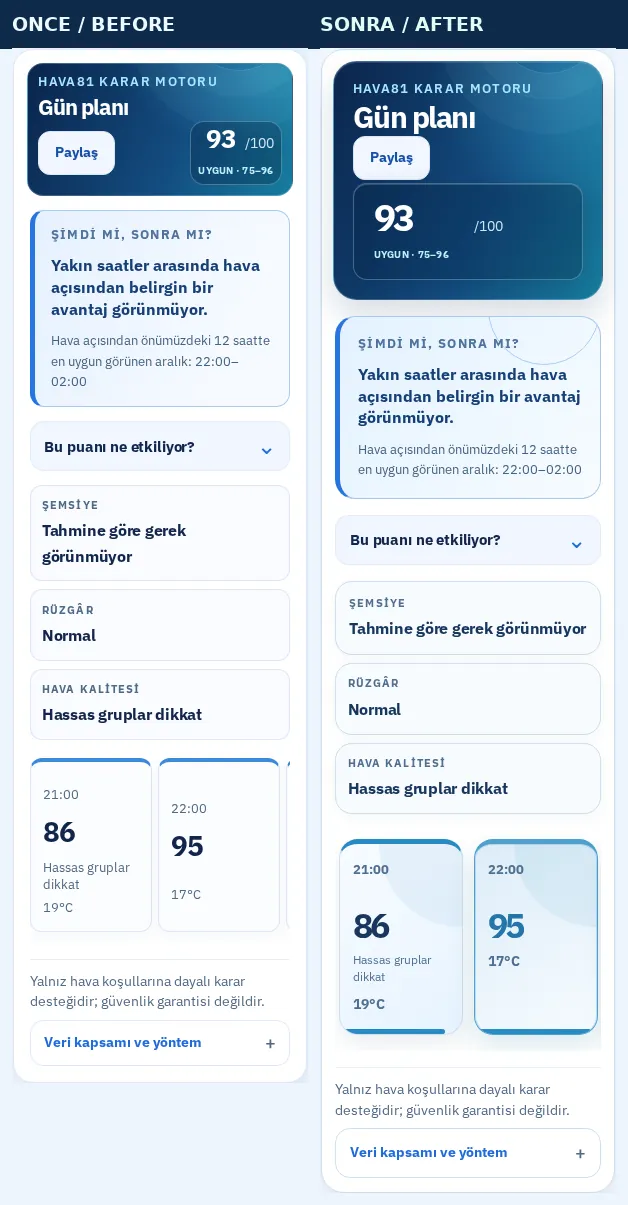
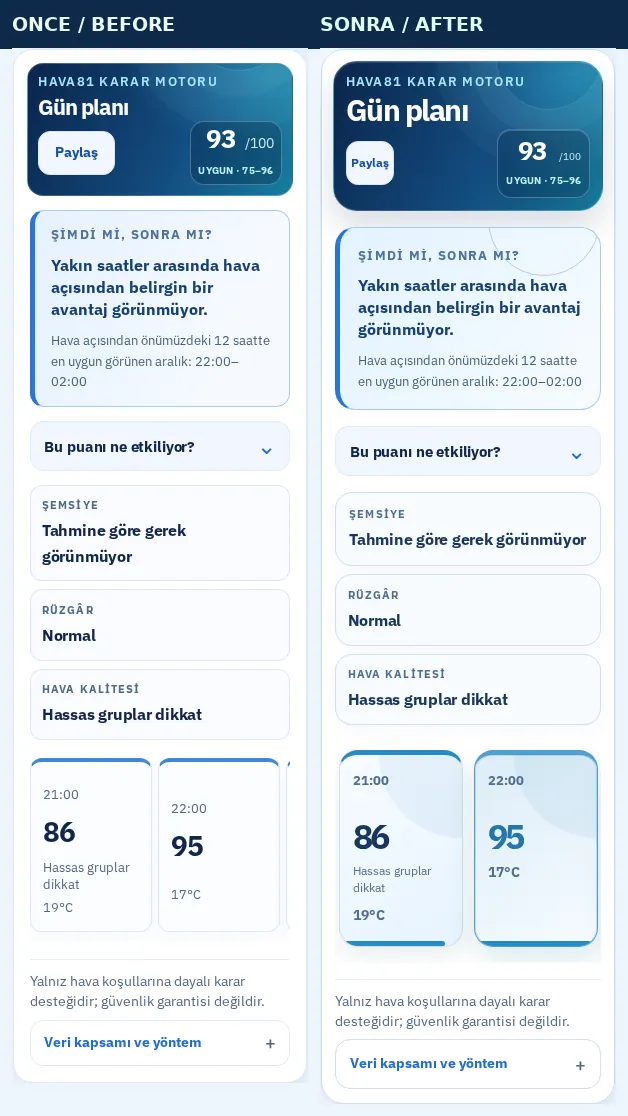
fix(ui): compact mobile day-plan header at 100 and 200 percent text

Changed region(s): [[0.0, 0.0, 1.0, 1.0]]

diff --git a/src/styles/DailyTimelineEditorial.css b/src/styles/DailyTimelineEditorial.css
@@ -184,7 +184,7 @@
 .app .daily-plan__method summary { min-height: 48px; }
 @media (max-width: 47.99rem) {
   .app .daily-plan { padding: .85rem; border-radius: 23px; }
-  .app .daily-plan__header { padding: 1.2rem; }
+  .app .daily-plan__header { padding: .75rem; }
   .app .daily-plan__header h2 { font-size: clamp(1.75rem, 7vw, 2.25rem); }
   .app .daily-plan__score strong { font-size: 2.3rem; }
   .app .daily-plan__slots { grid-auto-columns: minmax(8.35rem, 43%); gap: .65rem; padding-bottom: 1rem; }
@@ -236,19 +236,38 @@
     overflow-wrap: anywhere;
   }
   .app .daily-plan__header-actions {
+    display: flex;
     width: 100%;
-    flex-wrap: wrap;
-    justify-content: flex-start;
+    flex-wrap: nowrap;
+    align-items: center;
+    justify-content: space-between;
     min-width: 0;
+    gap: 8px;
+  }
+  .app .daily-plan__share {
+    flex: 0 0 auto;
+    min-width: 0;
+    padding-inline: 4px;
+    font-size: .75rem;
+    white-space: nowrap;
   }
   .app .daily-plan__score {
-    width: 100%;
+    flex: 0 1 auto;
+    width: auto;
     min-width: 0;
-    justify-items: start;
+    justify-items: end;
     max-width: 100%;
     box-sizing: border-box;
+    padding: 8px;
+  }
+  .app .daily-plan__score strong {
+    font-size: 1.65rem;
+  }
+  .app .daily-plan__score > span {
+    font-size: .625rem;
   }
   .app .daily-plan__score small {
-    text-align: left;
+    text-align: right;
+    overflow-wrap: anywhere;
   }
 }

diff --git a/docs/visual-reviews/dayplan-hourly-editorial-20261009/README.md b/docs/visual-reviews/dayplan-hourly-editorial-20261009/README.md
@@ -39,6 +39,8 @@ Aşağıdaki dosyalar **gerçek Chromium** ile aynı ekran genişliklerinde alı
 - Vite üretim derlemesi: **başarılı**; 81 şehir giriş sayfası üretimi de başarılı.
 - Vitest: **763 / 763**, 108 dosya başarılı.
 - Hedef Playwright kontrolleri: **5 başarılı**, 7 cihaz/koşul filtresiyle atlandı.
+- **PR #1298 CI düzeltmesi:** 390 px mobil başlık normal yazıda 180 px altında, %200 yazıda 450 px altında; paylaş düğmesi ve puan yan yana kalır, hiçbir kelime bölünmez.
+- Güncellenen mobil başlığın doğru gösterildiğini kanıtlamak için önce/sonra arşivi yeniden oluşturuldu.
 - Gerçek ekran ve tema çekimi: normal masaüstü/tablet/mobil, koyu tema, 320 px, %200 metin; Chromium test raporu yerel `.visual-dayplan/final-captures/audit.json` dosyasında.
 - Yalnızca bu ekran için eklenen kod: `src/styles/DailyTimelineEditorial.css`, `src/components/hava81/DailyPlanPanel.tsx`, CSS kaydını yapan `src/App.tsx` ve yeni Playwright regresyon testi.
 - GitHub CI/CD, CodeQL, browser flows ve Lighthouse yeşil olmadan PR birleştirilmez.
